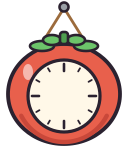
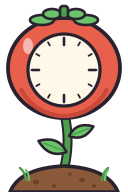
Grow the pomodoro clock out of the ground
The clock is now a tomato on a stem growing from a mound of soil, standing
on the ground like the other furniture. Pulling it up opens the pomodoro
window above it. It gets a new saved position so it doesn't land on the
nightstand where the hanging clock used to be.

diff --git a/Tools/generate-bunny.swift b/Tools/generate-bunny.swift
@@ -3326,33 +3326,66 @@ func drawMonitor(_ ctx: CGContext) {
 
 // MARK: - 時鐘（番茄鐘）
 //
-// clock.png：掛在螢幕上方的番茄造型掛鐘，用一條繩子掛在頂端的小釘子上。
+// clock.png：從土裡長出來的番茄掛鐘。一小堆土，冒出一根番茄莖（兩片葉子），莖頂端結了一顆番茄，番茄上是錶面。
 // 時針、分針、秒針和番茄鐘剩下的時間（錶面上的扇形）會動，由程式（ClockFace.swift）畫在圖上面，
 // 所以這張圖只畫不會動的部分；錶面中心、半徑要跟 ClockFace 的常數一致。
-let clockWidth: CGFloat = 64, clockHeight: CGFloat = 78
+let clockWidth: CGFloat = 64, clockHeight: CGFloat = 96
 
 func drawClock(_ ctx: CGContext) {
     let red = hex(0xE8604C), redDark = hex(0xC9483A), leaf = hex(0x6CC46A), leafDark = hex(0x4E9E4F)
-    // 釘子和掛繩
-    line(ctx, segment(CGPoint(x: 32, y: 74), CGPoint(x: 22, y: 58)), woodDark, width: 1.4)
-    line(ctx, segment(CGPoint(x: 32, y: 74), CGPoint(x: 42, y: 58)), woodDark, width: 1.4)
-    shape(ctx, ellipse(32, 74.5, 4.5, 4.5), hex(0x9AA0A6), lineWidth: 1.3)
+    let soil = hex(0x8A5A3B), soilDark = hex(0x6B4329)
+    // 一片葉子：以 (x, y) 為葉柄，往 angle 方向長出去
+    func stemLeaf(_ x: CGFloat, _ y: CGFloat, angle: CGFloat, length: CGFloat) {
+        ctx.saveGState()
+        ctx.translateBy(x: x, y: y)
+        ctx.rotate(by: angle)
+        let p = CGMutablePath()
+        p.move(to: .zero)
+        p.addQuadCurve(to: CGPoint(x: length, y: 0), control: CGPoint(x: length * 0.45, y: length * 0.42))
+        p.addQuadCurve(to: .zero, control: CGPoint(x: length * 0.45, y: -length * 0.42))
+        shape(ctx, p, leaf, lineWidth: 1.3)
+        line(ctx, segment(CGPoint(x: 1.5, y: 0), CGPoint(x: length * 0.8, y: 0)), leafDark, width: 0.8)
+        ctx.restoreGState()
+    }
+
+    // 莖：從土裡彎彎地長上來，接到番茄底下
+    let stem = quad(pt(31, 8), pt(32, 40), pt(36, 24))
+    line(ctx, stem, outline, width: 5)
+    line(ctx, stem, leafDark, width: 3)
+    stemLeaf(33.2, 20, angle: .pi * 0.88, length: 15)
+    stemLeaf(34.6, 28, angle: .pi * 0.12, length: 13)
+
+    // 一小堆土，上面有幾顆小石頭和小草
+    let mound = CGMutablePath()
+    mound.move(to: pt(5, 0))
+    mound.addQuadCurve(to: pt(32, 13), control: pt(10, 12))
+    mound.addQuadCurve(to: pt(59, 0), control: pt(54, 12))
+    mound.closeSubpath()
+    shape(ctx, mound, soil, lineWidth: 1.8)
+    for (x, y, r) in [(18, 5, 1.6), (27, 3, 1.2), (41, 6, 1.4), (47, 3, 1.1), (35, 9, 1.0)] as [(CGFloat, CGFloat, CGFloat)] {
+        shape(ctx, ellipse(x, y, r * 2, r * 1.6), soilDark, stroke: false)
+    }
+    for (x, lean) in [(13, -1), (51, 1)] as [(CGFloat, CGFloat)] {
+        line(ctx, quad(pt(x, 6), pt(x + lean * 3, 12), pt(x + lean * 0.5, 10)), leafDark, width: 1.2)
+        line(ctx, quad(pt(x + 1.5, 6), pt(x + 1.5 + lean * 1.5, 11), pt(x + 1.5, 9)), leaf, width: 1.1)
+    }
+
     // 番茄本體（稍微扁一點），下面一點陰影讓它圓圓的
-    shape(ctx, ellipse(32, 31, 56, 50), red, lineWidth: 1.9)
+    let c = CGPoint(x: 32, y: 61)
+    shape(ctx, ellipse(32, 62, 56, 50), red, lineWidth: 1.9)
     let shade = CGMutablePath()
-    shade.addArc(center: CGPoint(x: 32, y: 31), radius: 24, startAngle: .pi * 1.15, endAngle: .pi * 1.85, clockwise: false)
+    shade.addArc(center: CGPoint(x: 32, y: 62), radius: 24, startAngle: .pi * 1.15, endAngle: .pi * 1.85, clockwise: false)
     line(ctx, shade, redDark, width: 2.2)
     // 亮面
-    shape(ctx, ellipse(14, 42, 5, 8), hex(0xFFFFFF, 0.55), stroke: false)
-    // 葉子（五片）和蒂頭
-    for (dx, dy, w, h) in [(-11, 55, 12, 5), (11, 55, 12, 5), (-6, 58, 9, 5), (6, 58, 9, 5)] as [(CGFloat, CGFloat, CGFloat, CGFloat)] {
+    shape(ctx, ellipse(14, 73, 5, 8), hex(0xFFFFFF, 0.55), stroke: false)
+    // 頂上的葉子和蒂頭
+    for (dx, dy, w, h) in [(-11, 86, 12, 5), (11, 86, 12, 5), (-6, 89, 9, 5), (6, 89, 9, 5)] as [(CGFloat, CGFloat, CGFloat, CGFloat)] {
         shape(ctx, ellipse(32 + dx, dy, w, h), leaf, lineWidth: 1.3)
     }
-    shape(ctx, rounded(30, 56, 4, 6, 1.5), leafDark, lineWidth: 1.3)
+    shape(ctx, rounded(30, 87, 4, 6, 1.5), leafDark, lineWidth: 1.3)
     // 錶面
-    shape(ctx, ellipse(32, 30, 36, 36), hex(0xFFF8E8), lineWidth: 1.6)
+    shape(ctx, ellipse(c.x, c.y, 36, 36), hex(0xFFF8E8), lineWidth: 1.6)
     // 刻度：12 / 3 / 6 / 9 長一點
-    let c = CGPoint(x: 32, y: 30)
     for i in 0..<12 {
         let a = CGFloat.pi / 2 - CGFloat(i) * .pi / 6
         let inner: CGFloat = i % 3 == 0 ? 12.5 : 14.2

diff --git a/Sources/SmallPet/Scenery.swift b/Sources/SmallPet/Scenery.swift
@@ -1,6 +1,6 @@
-// Scenery.swift —— 桌面上的家具佈景：餐桌、電腦桌、床、床頭櫃、飛機，和掛在螢幕上方的時鐘。
+// Scenery.swift —— 桌面上的家具佈景：餐桌、電腦桌、床、床頭櫃、飛機、時鐘。
 //
-// 每件家具是獨立的透明視窗，擺在螢幕底部（時鐘掛在螢幕上方）、寵物後面。按住家具：
+// 每件家具是獨立的透明視窗，擺在螢幕底部、寵物後面。按住家具：
 //   - 左右拖：移動（位置會記住）
 //   - 往下拉：收起來（等於在選單取消勾選這件）
 //   - 往上拉：打開這件家具的小工具（電腦桌是計算機，床是關閉螢幕，床頭櫃是系統資訊，時鐘是番茄鐘）；還沒有小工具的家具會彈一下
@@ -10,7 +10,7 @@
 //   - 電腦桌、床、飛機：家具顯示時，她閒著會自己過去打電腦、上床睡覺、開飛機。
 //     床分成兩層：床架、枕頭在她後面，她躺好後棉被（另一個視窗）蓋在她前面。
 //     床頭櫃：上面的儀表顯示 CPU 用量和記憶體壓力（見 SystemMonitor.swift），她不會去用。
-//     時鐘：番茄造型的掛鐘，指針走真正的時間；番茄鐘進行中，錶面會出現剩下時間的扇形（見 ClockFace.swift）。
+//     時鐘：從土裡長出來的番茄，番茄上是錶面，指針走真正的時間；番茄鐘進行中，錶面會出現剩下時間的扇形（見 ClockFace.swift）。
 //     飛機分成兩個視窗夾住寵物：後層在她後面、前層（機身、螺旋槳）在她前面，看起來就像坐在駕駛艙裡。
 //
 // 圖片用的座標跟寵物畫布一樣，所以寵物視窗的 x 對齊家具視窗的 x，她就剛好坐在凳子 / 座板上。
@@ -73,8 +73,8 @@ final class Scenery {
         gauge = SystemGauge(on: monitor.window)
         plane = Prop(sprites: sprites, title: "飛機", name: "plane", activeName: nil, key: "scenery.plane.x",
                      defaultX: mid + 420, sink: Self.planeMargin)
-        clock = Prop(sprites: sprites, title: "時鐘（番茄鐘）", name: "clock", activeName: nil, key: "scenery.clock.x",
-                     defaultX: mid - 32, onTop: true)
+        clock = Prop(sprites: sprites, title: "時鐘（番茄鐘）", name: "clock", activeName: nil, key: "scenery.clock.ground.x",
+                     defaultX: mid - 150)
         clockFace = ClockFace(on: clock.window)
         blanket = SceneryWindow(image: sprites.prop("bed_front"))
         blanket.ignoresMouseEvents = true
@@ -254,13 +254,10 @@ final class Prop {
 
     // sink：視窗要比地面低多少（圖下方有留白的家具，例如飛機）。
     private let sink: CGFloat
-    // onTop：掛在螢幕上方（選單列下面），不是擺在地上（時鐘）。
-    private let onTop: Bool
 
-    init(sprites: SpriteLibrary, title: String, name: String, activeName: String?, key: String, defaultX: CGFloat, sink: CGFloat = 0, onTop: Bool = false) {
+    init(sprites: SpriteLibrary, title: String, name: String, activeName: String?, key: String, defaultX: CGFloat, sink: CGFloat = 0) {
         self.title = title
         self.sink = sink
-        self.onTop = onTop
         enabledKey = "scenery.enabled.\(name)"
         enabled = UserDefaults.standard.object(forKey: enabledKey) as? Bool ?? true
         image = sprites.prop(name)
@@ -274,7 +271,7 @@ final class Prop {
         clampToScreen()
     }
 
-    // 換螢幕或 Dock 變高時，貼回地面（時鐘貼回上緣）、別超出畫面。
+    // 換螢幕或 Dock 變高時，貼回地面、別超出畫面。
     func clampToScreen() {
         guard let visible = NSScreen.main?.visibleFrame else { return }
         let x = min(max(window.frame.minX, visible.minX), visible.maxX - window.frame.width)
@@ -283,7 +280,7 @@ final class Prop {
     }
 
     private func baseY(in visible: NSRect) -> CGFloat {
-        onTop ? visible.maxY - window.frame.height : visible.minY - sink
+        visible.minY - sink
     }
 }
 

diff --git a/Sources/SmallPet/ReminderWindow.swift b/Sources/SmallPet/ReminderWindow.swift
@@ -161,8 +161,8 @@ final class RemindersWindowController {
         self.center = center
     }
 
-    // tab：要打開哪一頁（nil = 上次那頁）；below：時鐘的位置，視窗開在它正下方（nil = 螢幕中間）。
-    func show(tab: RemindersNav.Tab? = nil, below anchor: NSRect? = nil) {
+    // tab：要打開哪一頁（nil = 上次那頁）；above：時鐘的位置，視窗開在它正上方（nil = 螢幕中間）。
+    func show(tab: RemindersNav.Tab? = nil, above anchor: NSRect? = nil) {
         if let tab { nav.tab = tab }
         if window == nil {
             let w = NSWindow(contentRect: NSRect(x: 0, y: 0, width: 380, height: 470),
@@ -176,7 +176,7 @@ final class RemindersWindowController {
         if let anchor, let window, let visible = NSScreen.main?.visibleFrame {
             let size = window.frame.size
             let x = min(max(anchor.midX - size.width / 2, visible.minX), visible.maxX - size.width)
-            let y = max(anchor.minY - 8 - size.height, visible.minY)
+            let y = min(anchor.maxY + 8, visible.maxY - size.height)
             window.setFrameOrigin(NSPoint(x: x, y: y))
         }
         center.refreshCalendarAccess()

diff --git a/Sources/SmallPet/ClockFace.swift b/Sources/SmallPet/ClockFace.swift
@@ -1,6 +1,6 @@
-// ClockFace.swift —— 掛鐘（家具「時鐘」）會動的部分：時針、分針、秒針，和番茄鐘剩下的時間。
+// ClockFace.swift —— 家具「時鐘」（從土裡長出來的番茄）會動的部分：時針、分針、秒針，和番茄鐘剩下的時間。
 //
-// 時鐘的圖（Resources/props/clock.png，Tools/generate-bunny.swift 的 drawClock）只畫不會動的番茄外殼和錶面；
+// 時鐘的圖（Resources/props/clock.png，Tools/generate-bunny.swift 的 drawClock）只畫不會動的土、莖、番茄和錶面；
 // 這裡把指針疊在上面。錶面中心、半徑要跟 drawClock 一致。
 //
 // 番茄鐘 / 倒數進行中，錶面會出現一塊扇形：從 12 點順時針鋪出剩下的分鐘數（一圈 = 60 分鐘），
@@ -17,7 +17,7 @@ final class ClockFace {
         let paused: Bool
     }
 
-    private static let center = CGPoint(x: 32, y: 30)
+    private static let center = CGPoint(x: 32, y: 61)
     private static let radius: CGFloat = 16.5
     private static let outline = CGColor(srgbRed: 0x2B / 255, green: 0x22 / 255, blue: 0x30 / 255, alpha: 1)
 

diff --git a/Sources/SmallPet/AppDelegate.swift b/Sources/SmallPet/AppDelegate.swift
@@ -229,7 +229,7 @@ final class AppDelegate: NSObject, NSApplicationDelegate, NSMenuDelegate {
         }
     }
 
-    // 掛鐘：指針走現在的時間；番茄鐘進行中，錶面畫出剩下的時間。
+    // 時鐘：指針走現在的時間；番茄鐘進行中，錶面畫出剩下的時間。
     private func updateClockFace() {
         var remaining: ClockFace.Remaining?
         if let left = reminders.pomodoroLeft() {
@@ -381,7 +381,7 @@ final class AppDelegate: NSObject, NSApplicationDelegate, NSMenuDelegate {
         }
         scenery.clock.window.onSwipeUp = { [weak self] in
             guard let self else { return }
-            self.remindersWindow.show(tab: .pomodoro, below: self.scenery.clock.window.frame)
+            self.remindersWindow.show(tab: .pomodoro, above: self.scenery.clock.window.frame)
         }
         scenery.bed.window.onSwipeUp = {
             // 等往上伸的動畫彈回來再關，看起來比較順。

diff --git a/README.md b/README.md
@@ -60,12 +60,12 @@ swift run
     乘號可以省略（`2π`、`3(4+1)`），函數不加括號也行（`log 100`、`√9`）。打字時下面即時顯示答案，按 = 後記進「紀錄」，點紀錄可以把結果放回算式
   - 餐桌：**吃飯**（餵食）。每天 2 次，盤子放上胡蘿蔔，她自己走過來坐下吃，吃完拿到 XP（見下方「練等」）；今天餵滿了她會說吃不下。「狀態」視窗也有餵食按鈕
   - 床：**關閉螢幕**（電腦還醒著，動一下滑鼠就亮）
-  - 時鐘：**番茄鐘**（「提醒設定」視窗直接開在番茄鐘那頁，就在時鐘正下方）
+  - 時鐘：**番茄鐘**（「提醒設定」視窗直接開在番茄鐘那頁，就在時鐘正上方）
   - 床頭櫃：**系統資訊**。CPU 用量、記憶體壓力（正常 / 偏緊 / 不足）、SmallPet 自己的 CPU 和記憶體；「詳細」裡有已使用記憶體、壓縮量、交換檔
 - **床頭櫃（系統資訊）**：上面的儀表指針是整台電腦的 CPU 用量（綠 → 黃 → 紅），燈泡是記憶體壓力：綠色 ✓ 正常、黃色 ! 偏緊、紅色 ✕ 不足（會一閃一閃）；光芒也會從 3 條變 5 條、7 條，色弱的人不看顏色也分得出來。
   看的是「記憶體壓力」而不是用了幾 GB：macOS 會把閒著的記憶體拿去當快取，「已使用」接近滿也很正常。床頭櫃沒擺出來、視窗也沒開時不讀數值
   - 飛機還沒有小工具，往上拉只會彈一下
-- **時鐘（番茄鐘）**：番茄造型的掛鐘，掛在螢幕上方（選單列下面），可以左右拖到想要的位置。指針走現在的時間；番茄鐘或倒數進行中，錶面會從 12 點順時針鋪出一塊扇形表示剩下的分鐘數（一圈 = 60 分鐘），專注是紅色、休息和倒數是藍色，暫停時變淡。她不會去用時鐘，把她拖過去也不會亮
+- **時鐘（番茄鐘）**：從土裡長出來的番茄，番茄上是時鐘的錶面，跟其他家具一樣擺在地上，可以左右拖到想要的位置。指針走現在的時間；番茄鐘或倒數進行中，錶面會從 12 點順時針鋪出一塊扇形表示剩下的分鐘數（一圈 = 60 分鐘），專注是紅色、休息和倒數是藍色，暫停時變淡。她不會去用時鐘，把她拖過去也不會亮
   - 狀態 / 地下城…：看等級、經驗值、戰鬥力；派她去地下城冒險；看背包和戰報
   - 衣櫃…：換髮型、衣服和配件（會記住，下次開啟還在；每個角色各自記）
     - **外觀**（純造型，不加戰鬥力，髮型和衣服可以任意搭配）
